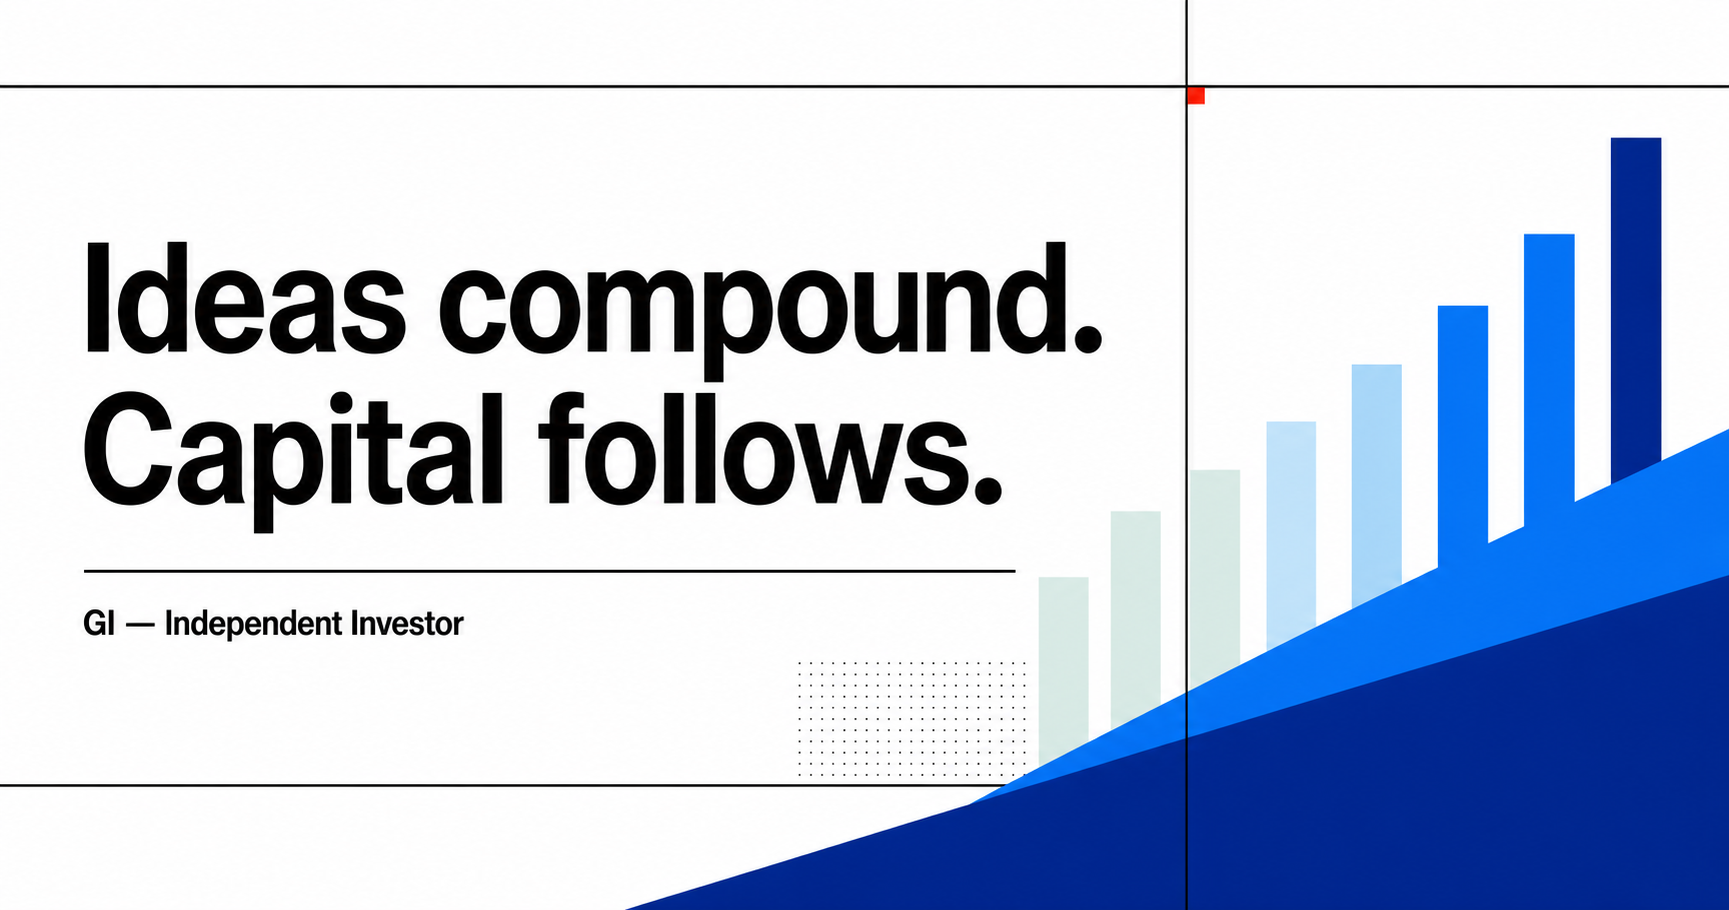
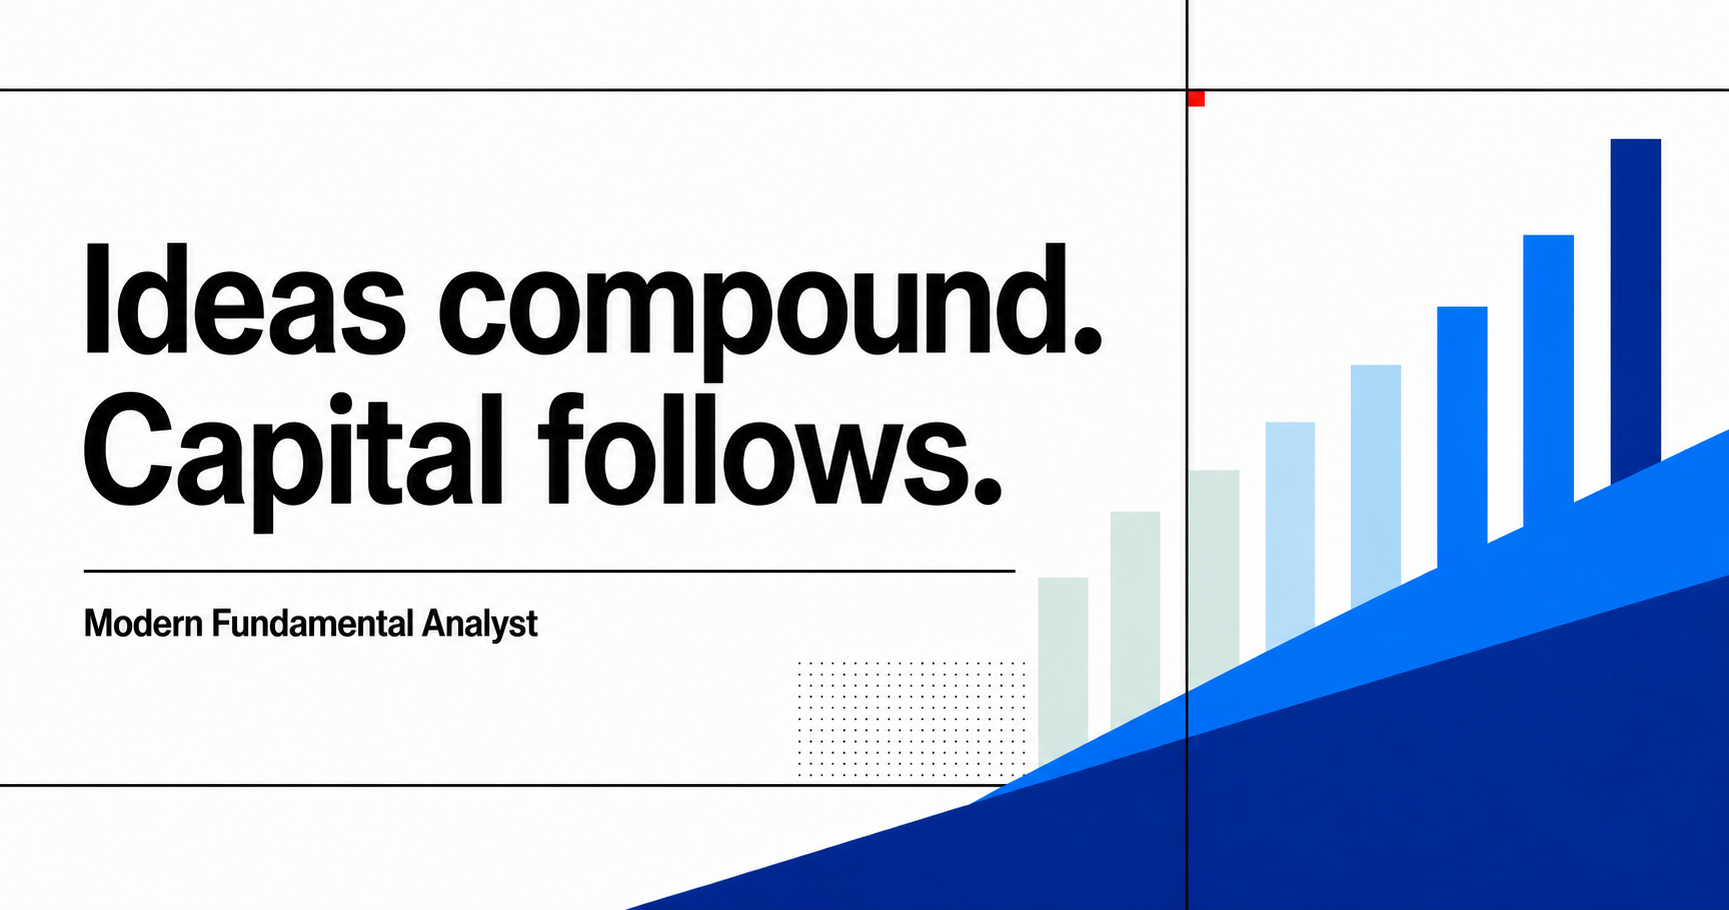
Rename site to Modern Fundamental Analyst

diff --git a/app/globals.css b/app/globals.css
@@ -34,8 +34,8 @@ body {
 
 a { color: inherit; text-decoration: none; }
 .shell { width: min(1440px, calc(100% - 64px)); margin-inline: auto; }
-.site-header { height: 92px; display: grid; grid-template-columns: 1fr auto 1fr; align-items: center; border-bottom: 1px solid var(--line); }
-.wordmark { font-size: 28px; font-weight: 800; letter-spacing: -0.08em; justify-self: start; }
+.site-header { height: 92px; display: grid; grid-template-columns: 1.35fr auto 1fr; align-items: center; border-bottom: 1px solid var(--line); }
+.wordmark { max-width: 260px; font-size: 18px; line-height: 1.05; font-weight: 800; letter-spacing: -0.045em; justify-self: start; }
 .wordmark span { color: var(--bright-blue); }
 .site-header nav { display: flex; gap: 36px; font-size: 14px; font-weight: 600; }
 .site-header nav a { transition: color .2s ease; }
@@ -117,7 +117,7 @@ a { color: inherit; text-decoration: none; }
 .cta .eyebrow { grid-column: 1 / -1; margin: 0 0 46px; }
 .cta h2 { margin: 0; font-size: clamp(52px, 7vw, 108px); line-height: .93; letter-spacing: -.065em; font-weight: 650; }
 .site-footer { padding: 66px 0 32px; display: grid; grid-template-columns: 1fr 2fr 1fr; gap: 32px; align-items: start; border-top: 1px solid var(--line); }
-.footer-mark { font-size: 36px; }
+.footer-mark { max-width: 320px; font-size: 25px; }
 .site-footer p { margin: 0; max-width: 390px; color: var(--muted); }
 .footer-links { justify-self: end; display: flex; gap: 26px; font-weight: 600; }
 .site-footer > small { grid-column: 1 / -1; margin-top: 70px; color: var(--muted); }
@@ -208,6 +208,7 @@ a { color: inherit; text-decoration: none; }
 @media (max-width: 800px) {
   .shell { width: min(100% - 32px, 720px); }
   .site-header { height: auto; min-height: 78px; grid-template-columns: 1fr auto; }
+  .site-header .wordmark { max-width: 190px; font-size: 16px; }
   .site-header nav { order: 3; grid-column: 1 / -1; width: 100%; padding: 14px 0 18px; gap: 22px; overflow-x: auto; border-top: 1px solid var(--line); }
   .hero { padding: 64px 0 54px; }
   .hero h1 { margin: 38px 0 52px; }

diff --git a/app/about/page.tsx b/app/about/page.tsx
@@ -2,14 +2,14 @@ import type { Metadata } from "next";
 import { SiteFooter } from "@/components/site-footer";
 import { SiteHeader } from "@/components/site-header";
 
-export const metadata: Metadata = { title: "About", description: "The perspective and principles behind GI's independent investment research." };
+export const metadata: Metadata = { title: "About", description: "The perspective and principles behind Modern Fundamental Analyst's independent investment research." };
 
 export default function AboutPage() {
   return <main><SiteHeader />
     <section className="page-hero shell"><p className="eyebrow"><span /> About</p><h1>Independent thinking.<br /><em>Long-term orientation.</em></h1></section>
     <section className="two-column shell body-section">
       <h2>Research before opinion.</h2>
-      <div className="rich-copy"><p>GI is an independent public-equity research practice focused on understandable businesses, durable economics, and disciplined capital allocation.</p><p>This site is a transparent archive of the portfolio, performance record, and written investment work. It is designed to show how conclusions change as new evidence arrives.</p></div>
+      <div className="rich-copy"><p>Modern Fundamental Analyst is an independent public-equity research practice focused on understandable businesses, durable economics, and disciplined capital allocation.</p><p>This site is a transparent archive of the portfolio, performance record, and written investment work. It is designed to show how conclusions change as new evidence arrives.</p></div>
     </section>
     <section className="principles shell">
       <article><span>01</span><h3>Clarity</h3><p>Explain the business and the thesis in plain language.</p></article>

diff --git a/app/layout.tsx b/app/layout.tsx
@@ -22,11 +22,11 @@ export async function generateMetadata(): Promise<Metadata> {
   const image = `${protocol}://${host}/og.png`;
   const description = "An independent public-equity portfolio, performance record, and investment memo archive.";
   return {
-    title: { default: "GI — Independent Investor", template: "%s | GI" },
+    title: { default: "Modern Fundamental Analyst", template: "%s | Modern Fundamental Analyst" },
     description,
     icons: { icon: "/favicon.svg", shortcut: "/favicon.svg" },
-    openGraph: { title: "GI — Independent Investor", description, images: [{ url: image, width: 1728, height: 910, alt: "Ideas compound. Capital follows." }] },
-    twitter: { card: "summary_large_image", title: "GI — Independent Investor", description, images: [image] },
+    openGraph: { title: "Modern Fundamental Analyst", description, images: [{ url: image, width: 1728, height: 910, alt: "Ideas compound. Capital follows." }] },
+    twitter: { card: "summary_large_image", title: "Modern Fundamental Analyst", description, images: [image] },
   };
 }
 

diff --git a/components/site-footer.tsx b/components/site-footer.tsx
@@ -3,13 +3,13 @@ import Link from "next/link";
 export function SiteFooter() {
   return (
     <footer className="site-footer shell">
-      <Link className="wordmark footer-mark" href="/">GI<span>.</span></Link>
+      <Link className="wordmark footer-mark" href="/">Modern Fundamental Analyst<span>.</span></Link>
       <p>Independent research. Transparent thinking. Long-term orientation.</p>
       <div className="footer-links">
         <Link href="/contact">Contact</Link>
         <Link href="/disclaimer">Disclaimer</Link>
       </div>
-      <small>© 2026 GI. All rights reserved.</small>
+      <small>© 2026 Modern Fundamental Analyst. All rights reserved.</small>
     </footer>
   );
 }

diff --git a/app/contact/page.tsx b/app/contact/page.tsx
@@ -2,7 +2,7 @@ import type { Metadata } from "next";
 import { SiteFooter } from "@/components/site-footer";
 import { SiteHeader } from "@/components/site-header";
 
-export const metadata: Metadata = { title: "Contact", description: "Contact GI about investment research and professional conversations." };
+export const metadata: Metadata = { title: "Contact", description: "Contact Modern Fundamental Analyst about investment research and professional conversations." };
 
 export default function ContactPage() {
   return <main><SiteHeader />

diff --git a/components/site-header.tsx b/components/site-header.tsx
@@ -3,8 +3,8 @@ import Link from "next/link";
 export function SiteHeader() {
   return (
     <header className="site-header shell">
-      <Link className="wordmark" href="/" aria-label="GI home">
-        GI<span>.</span>
+      <Link className="wordmark" href="/" aria-label="Modern Fundamental Analyst home">
+        Modern Fundamental Analyst<span>.</span>
       </Link>
       <nav aria-label="Primary navigation">
         <Link href="/about">About</Link>
